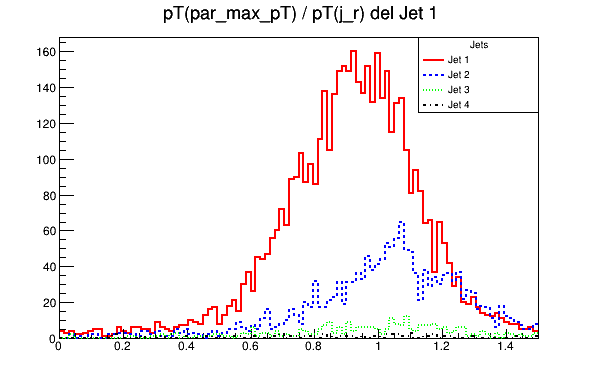
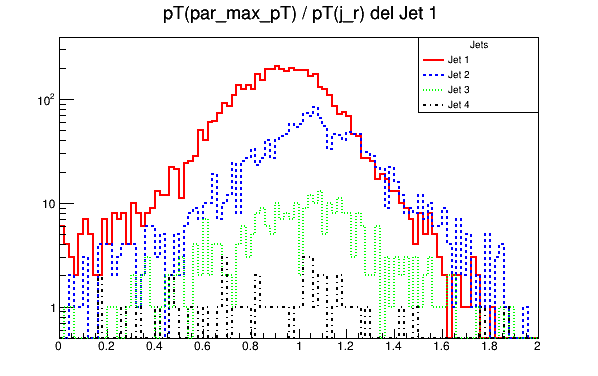
Cambios esteticos

diff --git a/Tomas_code/graphsTree.cpp b/Tomas_code/graphsTree.cpp
@@ -82,7 +82,7 @@ void graphsTree()
     TH1F *hDeltaRPar[6];
     for (int i = 0; i < 6; i++)
     {
-        hDeltaRPar[i] = new TH1F(Form("hDeltaRPar%d", i), Form("Delta R entre los primeros 4 jets, por parejas %d", i + 1), 100, 0, 6);
+        hDeltaRPar[i] = new TH1F(Form("hDeltaRPar%d", i), Form("Delta R entre los primeros 4 jets, por parejas %d", i + 1), 16, 0, 8);
         // Asigna un color único a cada histograma
         if (i == 0)
             hDeltaRPar[i]->SetLineColor(kRed);
@@ -106,7 +106,7 @@ void graphsTree()
     // Número de partículas cargadas por jet
     TH1F *hChargedParticles[4];
     for (int i = 0; i < 4; i++) {
-        hChargedParticles[i] = new TH1F(Form("hChargedParticles%d", i), Form("Numero de Partículas Cargadas del Jet %d", i+1), 100, -0.5, 3.5);
+        hChargedParticles[i] = new TH1F(Form("hChargedParticles%d", i), Form("Numero de Partículas Cargadas del Jet %d", i+1), 20, 0, 20);
     // Asigna un color único a cada histograma
     if(i == 0) hChargedParticles[i]->SetLineColor(kRed);
     else if(i == 1) hChargedParticles[i]->SetLineColor(kBlue);
@@ -120,7 +120,7 @@ void graphsTree()
     // Número de neutras cargadas por jet
     TH1F *hNeutralsParticles[4];
     for (int i = 0; i < 4; i++) {
-        hNeutralsParticles[i] = new TH1F(Form("hNeutralsParticles%d", i), Form("Numero de Partículas Cargadas del Jet %d", i+1), 100, -0.5, 3.5);
+        hNeutralsParticles[i] = new TH1F(Form("hNeutralsParticles%d", i), Form("Numero de Partículas Cargadas del Jet %d", i+1), 20, 0, 20);
     // Asigna un color único a cada histograma
     if(i == 0) hNeutralsParticles[i]->SetLineColor(kRed);
     else if(i == 1) hNeutralsParticles[i]->SetLineColor(kBlue);
@@ -134,7 +134,7 @@ void graphsTree()
     // Histograma de fracción de pT cargado del jet
     TH1F *hChargedPTFraction[4];
     for (int i = 0; i < 4; i++) {
-    hChargedPTFraction[i] = new TH1F(Form("hChargedPTFraction%d", i), Form("Fracción de pT cargado del Jet %d", i+1), 100, 0, 1);
+    hChargedPTFraction[i] = new TH1F(Form("hChargedPTFraction%d", i), Form("Fracción de pT cargado del Jet %d", i+1), 100, 0, 2); // cambie el limite superior de 1 a 2
     
     // Asigna un color único a cada histograma
     if(i == 0) hChargedPTFraction[i]->SetLineColor(kRed);
@@ -179,7 +179,7 @@ void graphsTree()
     // Histograma del número de partículas pertenecientes a un jet con pT por debajo del pT promedio por cada jet
     TH1F *hParticlesBelowAvgPT[4];
     for (int i = 0; i < 4; i++) {
-    hParticlesBelowAvgPT[i] = new TH1F(Form("hParticlesBelowAvgPT%d", i), Form("Número de partículas con pT < pT promedio del Jet %d", i+1), 100, 0, 50);
+    hParticlesBelowAvgPT[i] = new TH1F(Form("hParticlesBelowAvgPT%d", i), Form("Número de partículas con pT < pT promedio del Jet %d", i+1), 100, 0, 80);//Cambie el limite superior de 50 a 80
     
     // Asigna un color único a cada histograma
     if(i == 0) hParticlesBelowAvgPT[i]->SetLineColor(kRed);
@@ -209,7 +209,7 @@ void graphsTree()
     // Histograma de pT(par_max_pT) / pT(j_r).
     TH1F *hMaxPTRatio[4];
     for (int i = 0; i < 4; i++) {
-    hMaxPTRatio[i] = new TH1F(Form("hMaxPTRatio%d", i), Form("pT(par_max_pT) / pT(j_r) del Jet %d", i+1), 100, 0, 1.5);
+    hMaxPTRatio[i] = new TH1F(Form("hMaxPTRatio%d", i), Form("pT(par_max_pT) / pT(j_r) del Jet %d", i+1), 100, 0, 2);// cambie el limite superior de 1.5 a 2
     
     // Asigna un color único a cada histograma
     if(i == 0) hMaxPTRatio[i]->SetLineColor(kRed);
@@ -344,7 +344,7 @@ void graphsTree()
     // Histogram for R containing 50% of the total pT from the jet center for each jet
     TH1F *hR50PercentPT[4];
     for (int i = 0; i < 4; i++) {
-    hR50PercentPT[i] = new TH1F(Form("hR50PercentPT%d", i), Form("R para 50%% pT total del Jet %d", i+1), 100, 0, 0.4);
+    hR50PercentPT[i] = new TH1F(Form("hR50PercentPT%d", i), Form("R para 50%% pT total del Jet %d", i+1), 100, 0, 0.5);
     
     // Assign a unique color to each histogram
     if(i == 0) hR50PercentPT[i]->SetLineColor(kRed);
@@ -360,7 +360,7 @@ void graphsTree()
     TH1F *hR95PercentPT[4];
     for (int i = 0; i < 4; i++) 
     {
-        hR95PercentPT[i] = new TH1F(Form("hR95PercentPT%d", i), Form("R para 95%% pT total del Jet %d", i+1), 100, 0, 0.4);
+        hR95PercentPT[i] = new TH1F(Form("hR95PercentPT%d", i), Form("R para 95%% pT total del Jet %d", i+1), 100, 0, 0.5);
         // Assign a unique color to each histogram
         if(i == 0) hR95PercentPT[i]->SetLineColor(kRed);
         else if(i == 1) hR95PercentPT[i]->SetLineColor(kBlue);
@@ -668,6 +668,7 @@ void graphsTree()
     // Dibujar histograma de pT de los jets
     TCanvas *c1 = new TCanvas("c1", "pT de los Jets", 600, 400);
     gStyle->SetOptStat(0); // Desactiva la caja de estadísticas para todos los histogramas
+    gPad->SetLogy(); // Escala logarítmica en el eje y
     hJetPT[0]->Draw(); // Dibuja el primer histograma
     for (int i = 1; i < 4; i++) {
         hJetPT[i]->Draw("SAME"); // Superpone los siguientes histogramas
@@ -681,6 +682,7 @@ void graphsTree()
 
     TCanvas *cEta = new TCanvas("cEta", "Eta de los Jets", 600, 400);
     gStyle->SetOptStat(0); // Desactiva la caja de estadísticas para todos los histogramas
+    gPad->SetLogy(); // Escala logarítmica en el eje y
     hJetEta[0]->Draw(); // Dibuja el primer histograma
     for (int i = 1; i < 4; i++) {
         hJetEta[i]->Draw("SAME"); // Superpone los siguientes histogramas
@@ -694,6 +696,7 @@ void graphsTree()
 
     TCanvas *cPhi = new TCanvas("cPhi", "Phi de los Jets", 600, 400);
     gStyle->SetOptStat(0); // Desactiva la caja de estadísticas para todos los histogramas
+    gPad->SetLogy(); // Escala logarítmica en el eje y
     hJetPhi[0]->Draw(); // Dibuja el primer histograma
     for (int i = 1; i < 4; i++) {
         hJetPhi[i]->Draw("SAME"); // Superpone los siguientes histogramas
@@ -712,14 +715,19 @@ void graphsTree()
         hDeltaRPar[i]->Draw("SAME"); // Superpone los siguientes histogramas
     }
     TLegend *legendRPar = new TLegend(0.7, 0.7, 0.9, 0.9); // Ajusta la posición según sea necesario
-    legendRPar->SetHeader("Jets", "C"); // Opcional: título de la leyenda
-    for (int i = 0; i < 6; i++) {
-        legendRPar->AddEntry(hDeltaRPar[i], Form("Jet %d", i+1), "l");
-    }
+    legendRPar->SetHeader("DeltaR pares de Jets", "C"); // Opcional: título de la leyenda
+    legendRPar->AddEntry(hDeltaRPar[0], Form("Entre 0,1"), "l");
+    legendRPar->AddEntry(hDeltaRPar[1], Form("Entre 0,2"), "l");
+    legendRPar->AddEntry(hDeltaRPar[2], Form("Entre 0,3"), "l");
+    legendRPar->AddEntry(hDeltaRPar[3], Form("Entre 1,2"), "l");
+    legendRPar->AddEntry(hDeltaRPar[4], Form("Entre 1,3"), "l");
+    legendRPar->AddEntry(hDeltaRPar[5], Form("Entre 2,3"), "l");
+    
     legendRPar->Draw();
 
     TCanvas *cNCharged = new TCanvas("cNCharged", "Numero de partículas cargadas por jet", 600, 400);
     gStyle->SetOptStat(0); // Desactiva la caja de estadísticas para todos los histogramas
+    gPad->SetLogy(); // Escala logarítmica en el eje y
     hChargedParticles[0]->Draw(); // Dibuja el primer histograma
     for (int i = 1; i < 4; i++) {
         hChargedParticles[i]->Draw("SAME"); // Superpone los siguientes histogramas
@@ -733,6 +741,7 @@ void graphsTree()
 
     TCanvas *cNNeutrals = new TCanvas("cNNeutrals", "Numero de partículas neutras por jet", 600, 400);
     gStyle->SetOptStat(0); // Desactiva la caja de estadísticas para todos los histogramas
+    gPad->SetLogy(); // Escala logarítmica en el eje y
     hNeutralsParticles[0]->Draw(); // Dibuja el primer histograma
     for (int i = 1; i < 4; i++) {
         hNeutralsParticles[i]->Draw("SAME"); // Superpone los siguientes histogramas
@@ -746,6 +755,7 @@ void graphsTree()
 
     TCanvas *cChargedPTFraction = new TCanvas("cChargedPTFraction", "Fracción de pT cargado del Jet", 600, 400);
     gStyle->SetOptStat(0); // Disable the statistics box for all histograms
+    gPad->SetLogy(); // Escala logarítmica en el eje y
     hChargedPTFraction[0]->Draw(); // Draw the first histogram
     for (int i = 1; i < 4; i++) {
         hChargedPTFraction[i]->Draw("SAME"); // Overlay the other histograms
@@ -759,6 +769,7 @@ void graphsTree()
 
     TCanvas *cNeutralPTFraction = new TCanvas("cNeutralPTFraction", "Fracción de pT neutro del Jet", 600, 400);
     gStyle->SetOptStat(0); // Disable the statistics box for all histograms
+    gPad->SetLogy(); // Escala logarítmica en el eje y
     hNeutralPTFraction[0]->Draw(); // Draw the first histogram
     for (int i = 1; i < 4; i++) {
         hNeutralPTFraction[i]->Draw("SAME"); // Overlay the other histograms
@@ -772,6 +783,7 @@ void graphsTree()
 
     TCanvas *cAveragePT = new TCanvas("cAveragePT", "pT promedio de las partículas del Jet", 600, 400);
     gStyle->SetOptStat(0); // Disable the statistics box for all histograms
+    gPad->SetLogy(); // Escala logarítmica en el eje y
     hAveragePT[0]->Draw(); // Draw the first histogram
     for (int i = 1; i < 4; i++) {
         hAveragePT[i]->Draw("SAME"); // Overlay the other histograms
@@ -785,6 +797,7 @@ void graphsTree()
 
     TCanvas *cParticlesBelowAvgPT = new TCanvas("cParticlesBelowAvgPT", "Número de partículas con pT < pT promedio del Jet", 600, 400);
     gStyle->SetOptStat(0); // Disable the statistics box for all histograms
+    gPad->SetLogy(); // Escala logarítmica en el eje y
     hParticlesBelowAvgPT[0]->Draw(); // Draw the first histogram
     for (int i = 1; i < 4; i++) {
         hParticlesBelowAvgPT[i]->Draw("SAME"); // Overlay the other histograms
@@ -798,6 +811,7 @@ void graphsTree()
 
     TCanvas *cParticlesAboveAvgPT = new TCanvas("cParticlesAboveAvgPT", "Número de partículas con pT > pT promedio del Jet", 600, 400);
     gStyle->SetOptStat(0); // Disable the statistics box for all histograms
+    gPad->SetLogy(); // Escala logarítmica en el eje y
     hParticlesAboveAvgPT[0]->Draw(); // Draw the first histogram
     for (int i = 1; i < 4; i++) {
         hParticlesAboveAvgPT[i]->Draw("SAME"); // Overlay the other histograms
@@ -811,6 +825,7 @@ void graphsTree()
 
     TCanvas *cMaxPTRatio = new TCanvas("cMaxPTRatio", "pT(par_max_pT) / pT(j_r) del Jet", 600, 400);
     gStyle->SetOptStat(0); // Disable the statistics box for all histograms
+    gPad->SetLogy(); // Escala logarítmica en el eje y
     hMaxPTRatio[0]->Draw(); // Draw the first histogram
     for (int i = 1; i < 4; i++) {
         hMaxPTRatio[i]->Draw("SAME"); // Overlay the other histograms
@@ -837,6 +852,7 @@ void graphsTree()
 
     TCanvas *cMaxDRRatio = new TCanvas("cMaxDRRatio", "pT(par_max_DR) / pT(j_r) del Jet", 600, 400);
     gStyle->SetOptStat(0); // Disable the statistics box for all histograms
+    gPad->SetLogy(); // Escala logarítmica en el eje y
     hMaxDRRatio[0]->Draw(); // Draw the first histogram
     for (int i = 1; i < 4; i++) {
         hMaxDRRatio[i]->Draw("SAME"); // Overlay the other histograms
@@ -850,6 +866,7 @@ void graphsTree()
 
     TCanvas *cMinDRRatio = new TCanvas("cMinDRRatio", "pT(par_min_DR) / pT(j_r) del Jet", 600, 400);
     gStyle->SetOptStat(0); // Disable the statistics box for all histograms
+    gPad->SetLogy(); // Escala logarítmica en el eje y
     hMinDRRatio[0]->Draw(); // Draw the first histogram
     for (int i = 1; i < 4; i++) {
         hMinDRRatio[i]->Draw("SAME"); // Overlay the other histograms
@@ -863,6 +880,7 @@ void graphsTree()
 
     TCanvas *cDeltaRMaxPT = new TCanvas("cDeltaRMaxPT", "DeltaR(par_max_pT, j_r) del Jet", 600, 400);
     gStyle->SetOptStat(0); // Disable the statistics box for all histograms
+    gPad->SetLogy(); // Escala logarítmica en el eje y
     hDeltaRMaxPT[0]->Draw(); // Draw the first histogram
     for (int i = 1; i < 4; i++) {
         hDeltaRMaxPT[i]->Draw("SAME"); // Overlay the other histograms
@@ -876,6 +894,7 @@ void graphsTree()
 
     TCanvas *cDeltaRMinPT = new TCanvas("cDeltaRMinPT", "DeltaR(par_min_pT, j_r) del Jet", 600, 400);
     gStyle->SetOptStat(0); // Disable the statistics box for all histograms
+    gPad->SetLogy(); // Escala logarítmica en el eje y
     hDeltaRMinPT[0]->Draw(); // Draw the first histogram
     for (int i = 1; i < 4; i++) {
         hDeltaRMinPT[i]->Draw("SAME"); // Overlay the other histograms
@@ -889,6 +908,7 @@ void graphsTree()
 
     TCanvas *cDeltaRMaxDR = new TCanvas("cDeltaRMaxDR", "DeltaR(par_max_DR, j_r) del Jet", 600, 400);
     gStyle->SetOptStat(0); // Disable the statistics box for all histograms
+    gPad->SetLogy(); // Escala logarítmica en el eje y
     hDeltaRMaxDR[0]->Draw(); // Draw the first histogram
     for (int i = 1; i < 4; i++) {
         hDeltaRMaxDR[i]->Draw("SAME"); // Overlay the other histograms
@@ -902,6 +922,7 @@ void graphsTree()
 
     TCanvas *cDeltaRMinDR = new TCanvas("cDeltaRMinDR", "DeltaR(par_min_DR, j_r) del Jet", 600, 400);
     gStyle->SetOptStat(0); // Disable the statistics box for all histograms
+    gPad->SetLogy(); // Escala logarítmica en el eje y
     hDeltaRMinDR[0]->Draw(); // Draw the first histogram
     for (int i = 1; i < 4; i++) {
         hDeltaRMinDR[i]->Draw("SAME"); // Overlay the other histograms
@@ -915,6 +936,7 @@ void graphsTree()
 
     TCanvas *cPTDifference = new TCanvas("cPTDifference", "pT(par_max_pT) - pT(par_min_pT) del Jet", 600, 400);
     gStyle->SetOptStat(0); // Disable the statistics box for all histograms
+    gPad->SetLogy(); // Escala logarítmica en el eje y
     hPTDifference[0]->Draw(); // Draw the first histogram
     for (int i = 1; i < 4; i++) {
         hPTDifference[i]->Draw("SAME"); // Overlay the other histograms
@@ -928,6 +950,7 @@ void graphsTree()
 
     // Plot R al 50%
     TCanvas * cR50 = new TCanvas("cR50", "R al 50% del pT total del jet", 600, 400);
+    gPad->SetLogy(); // Escala logarítmica en el eje y
     hR50PercentPT[0]->Draw();
     for (int i = 1; i < 4; i++) {
         hR50PercentPT[i]->Draw("SAME");
@@ -941,6 +964,7 @@ void graphsTree()
 
     // R al 95%
     TCanvas * cR95 = new TCanvas("cR95", "R al 95% del pT total del jet", 600, 400);
+    gPad->SetLogy(); // Escala logarítmica en el eje y
     hR95PercentPT[0]->Draw();
     for (int i = 1; i < 4; i++) {
         hR95PercentPT[i]->Draw("SAME");

diff --git a/Tomas_code/MyClass.h b/Tomas_code/MyClass.h
@@ -1,6 +1,6 @@
 //////////////////////////////////////////////////////////
 // This class has been automatically generated on
-// Thu Sep  5 11:11:57 2024 by ROOT version 6.30/06
+// Thu Sep  5 14:04:07 2024 by ROOT version 6.30/06
 // from TChain Delphes/
 //////////////////////////////////////////////////////////
 
